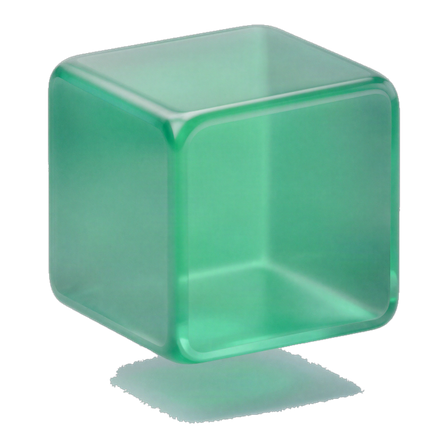
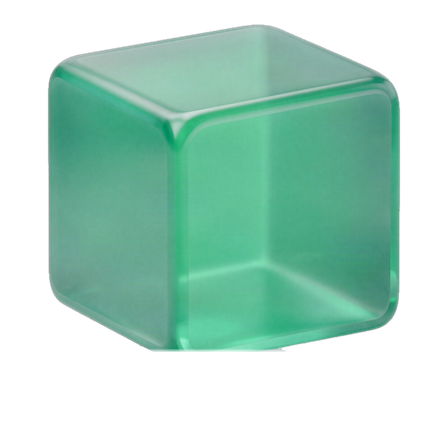
Nazev webu, statistika v uvodu a ikony predmetu
- "Informatika na stredni" -> "Do vyuky na stredni": web uz neni jen
  o informatice, mel to v nazvu.
- Treti statistika v heru vypisovala "Word, PowerPoint, Python", coz
  taky slibovalo min, nez web ma. Misto toho rika, pro ktery rocnik to
  je - udaj, ktery na webu dosud chybel uplne.
- Pocet temat v heru se pocital jen z vlastnich souboru, takze po
  vcerejsim odstraneni PDF hlasil 5 temat nad mrizkou s osmi
  dlazdicemi. Ted pocita temata z galerie, soubory dal jen vlastni.
- Odkaz na cvicebnici miri primo na PDF "100 prikladu pro Office",
  ne na slozku (Word, Excel i Power BI).
- Ikony predmetu jsou v dlazdici svisle na stred, ne u horniho okraje.
- Chemie mela v levem rameni vykousnutou diru (2240 px pruhlednosti
  uvnitr siluety) - zaplneno prelevanim barvy od okraju dire.
- Chemie a deskriptivni geometrie mely jako jedine vrzeny stin.
  Odriznut v pase, ktery se nasel merenim sirky siluety po radcich
  (chemie y=392, krychle y=348).

Co zbyva: Karel chtel ikony natocene celem k divakovi, ne do strany.
To se bez pregenerovani udelat neda a na uctu doslyy kredity.

84 testu, tsc --noEmit ciste, overeno v prohlizeci.

Changed region(s): [[0.25, 0.7812, 0.8125, 0.9688]]

diff --git a/src/lib/content.ts b/src/lib/content.ts
@@ -1111,7 +1111,7 @@ export const t: Record<Lang, Dict> = {
       lessons: "Výuka",
       contact: "Kontakt",
       bank: "Materiály do informatiky",
-      brand: "Informatika na střední",
+      brand: "Do výuky na střední",
       brandSub: "Karel Hlas · SPŠ Tábor",
     },
     hero: {
@@ -1121,7 +1121,7 @@ export const t: Record<Lang, Dict> = {
       tagline:
         "Pro střední školy. Zdarma, ke stažení i úpravě, bez přihlašování.",
       byline: "Připravuje Karel Hlas · učitel informatiky na SPŠ Tábor",
-      stats: "{files} souborů · {topics} témat · Word, PowerPoint, Python",
+      stats: "{files} souborů · {topics} témat · 1. ročník SŠ",
       sample: "Ukázka materiálů",
       ctaLessons: "Procházet materiály",
       ctaContact: "O mně",
@@ -1382,7 +1382,7 @@ export const t: Record<Lang, Dict> = {
       lessons: "Lessons",
       contact: "Contact",
       bank: "Materials for CS",
-      brand: "Computer science at school",
+      brand: "For secondary school lessons",
       brandSub: "Karel Hlas · SPŠ Tábor",
     },
     hero: {
@@ -1392,7 +1392,7 @@ export const t: Record<Lang, Dict> = {
       tagline:
         "For secondary schools. Free to download and edit, no sign-up.",
       byline: "Curated by Karel Hlas · CS teacher at SPŠ Tábor",
-      stats: "{files} files · {topics} topics · Word, PowerPoint, Python",
+      stats: "{files} files · {topics} topics · Year 1 secondary",
       sample: "Sample materials",
       ctaLessons: "Browse the materials",
       ctaContact: "About me",

diff --git a/src/lib/heroPick.test.ts b/src/lib/heroPick.test.ts
@@ -82,8 +82,11 @@ describe("pickHeroHighlights", () => {
 });
 
 describe("getBankStats", () => {
-  it("počítá jen hostované soubory a unikátní témata", () => {
-    const stats = getBankStats([...POOL, item({ href: "x", tool: "Word", ext: "link", external: true })]);
-    expect(stats).toEqual({ files: 6, topics: 5 });
+  it("počítá jen hostované soubory, ale všechna témata z galerie", () => {
+    // Téma, které má jen odkaz na cizí zdroj (dnes Word, Excel, Power BI),
+    // v galerii dlaždici má – hero ho tedy musí započítat, jinak slíbí míň
+    // témat, než kolik jich je na obrazovce vidět.
+    const stats = getBankStats([...POOL, item({ href: "x", tool: "Ostatní", ext: "link", external: true })]);
+    expect(stats).toEqual({ files: 6, topics: 6 });
   });
 });

diff --git a/src/lib/heroPick.ts b/src/lib/heroPick.ts
@@ -9,8 +9,11 @@ import type { BankItem } from "@/lib/materials";
 
 /** Kolik souborů a v kolika tématech – čísla do hera. Externí odkazy se nepočítají. */
 export function getBankStats(items: BankItem[]): { files: number; topics: number } {
+  // Soubory počítáme jen vlastní (odkaz na cizí zdroj není soubor ke stažení),
+  // ale témat je tolik, kolik jich je v galerii – jinak by hero hlásil 5 témat
+  // nad mřížkou s osmi dlaždicemi. Word, Excel a Power BI jsou dnes jen odkazy.
   const own = items.filter((i) => !i.external);
-  return { files: own.length, topics: new Set(own.map((i) => i.tool)).size };
+  return { files: own.length, topics: new Set(items.map((i) => i.tool)).size };
 }
 
 /** Typy souborů, které se hodí do ukázky (binárky jako `.db` ne). */

diff --git a/src/components/CrossSubject.tsx b/src/components/CrossSubject.tsx
@@ -136,7 +136,7 @@ function SubjectTile({
         type="button"
         onClick={onToggle}
         aria-expanded={open}
-        className="group flex w-full items-start gap-3 p-5 text-left"
+        className="group flex w-full items-center gap-3 p-5 text-left"
       >
         <span className="flex h-14 w-14 shrink-0 items-center justify-center">
           <Image
@@ -156,7 +156,7 @@ function SubjectTile({
           </span>
         </span>
         <ChevronDown
-          className={`mt-1 h-5 w-5 shrink-0 text-zinc-400 transition-transform ${open ? "rotate-180" : ""}`}
+          className={`h-5 w-5 shrink-0 text-zinc-400 transition-transform ${open ? "rotate-180" : ""}`}
         />
       </button>
 
